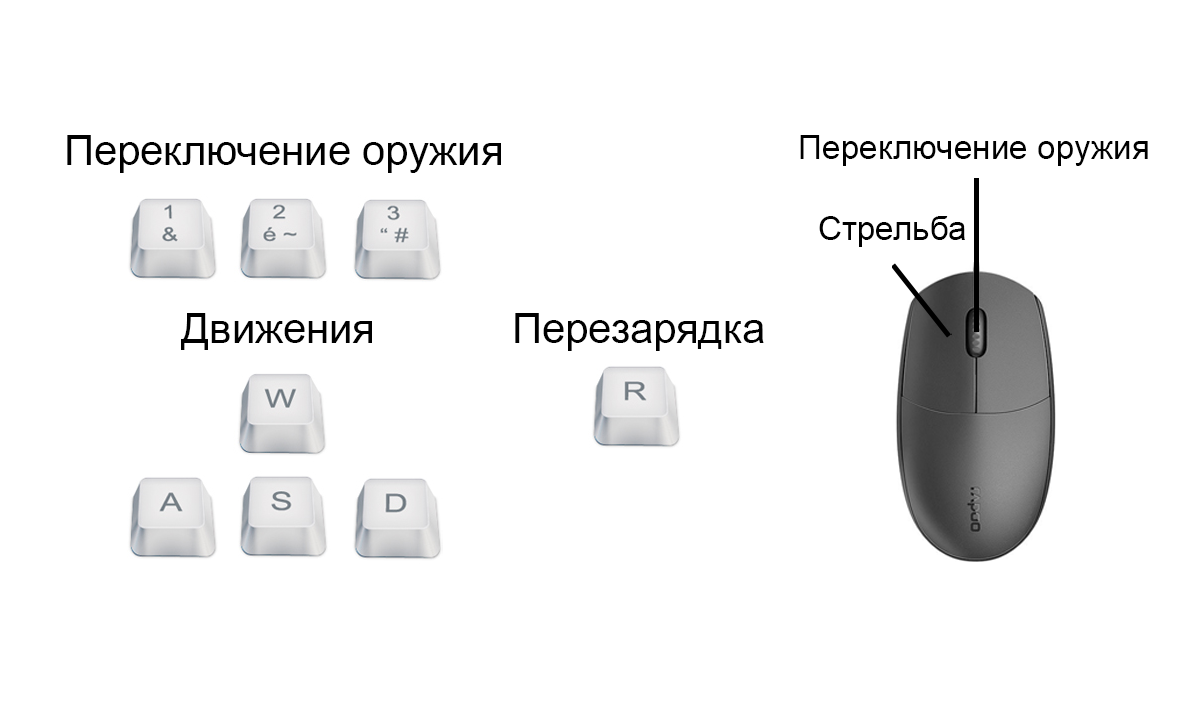
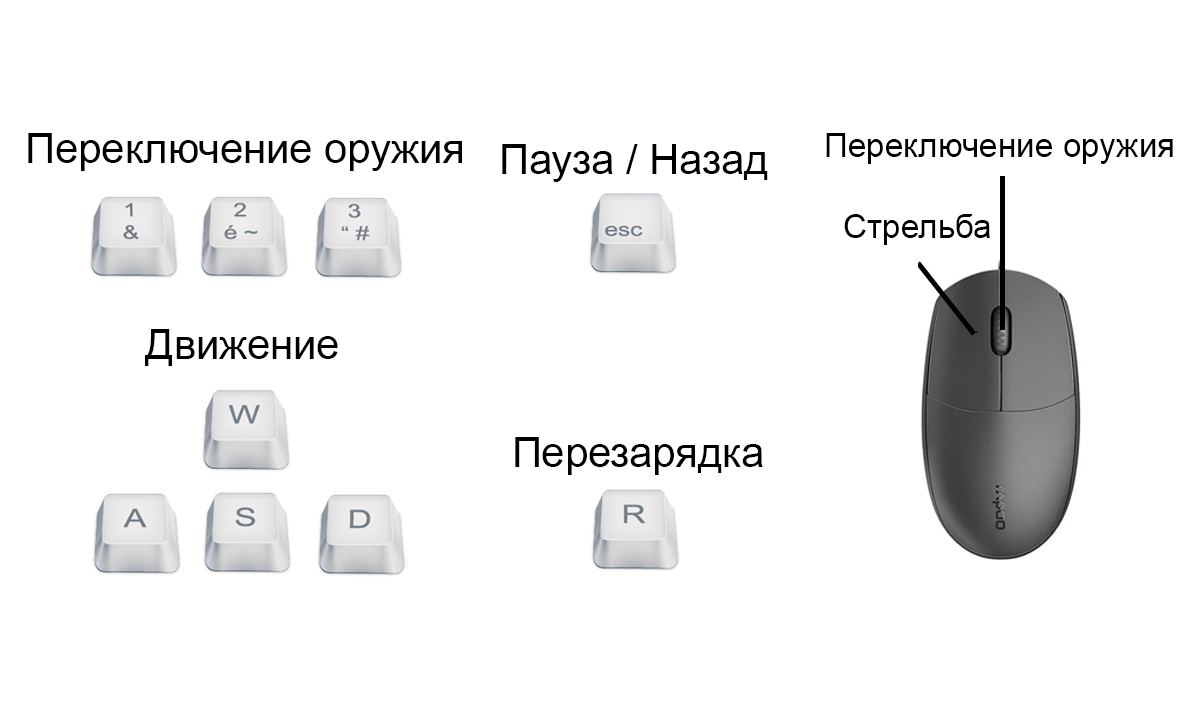
More advanced Menu, puase and navigation added.

diff --git a/main.py b/main.py
@@ -1,15 +1,15 @@
+from time import time
+
 import pygame
-from pygame.constants import MOUSEWHEEL
+from pygame.constants import K_ESCAPE, KEYDOWN, MOUSEWHEEL
 
 import config
-from config import windowCenter
-
 from camera import Camera
-from config import window
+from config import window, windowCenter
 from groups import bullets, texts
-from sprites.game_sprite import GameSprite
 from sprites.collider import Collider
 from sprites.entity import Entity, collidingObjects
+from sprites.game_sprite import GameSprite
 from sprites.player import Player
 from ui.button import Button, OnClick
 from ui.text import Text
@@ -23,38 +23,66 @@ clock = pygame.time.Clock()
 # * Other
 run = True
 gameState = 'menu'
+previousState = 'menu'
+lastChange = 0
 
 # * Camera stuff
 camera = Camera(window)
 
 # ? Game sprites
 # * UI
-ammoText = Text(camera, (25, 25), '', 32, (0, 0, 0), False, 'Arial')
+# & Game
+ammoText = Text(camera, 'left', (25, 25), '', 32, (0, 0, 0), False, 'Arial')
 
-playButton = Button(camera, (windowCenter[0], windowCenter[1] + 100), (150, 75), 'Играть', 32, (255, 255, 255), True, (41, 121, 255))
-controlsButton = Button(camera, (windowCenter[0], windowCenter[1] + 15), (250, 75), 'Управление', 32, (255, 255, 255), True, (41, 121, 255))
-startText = Text(camera, (windowCenter[0], windowCenter[1] - 200), config.startText, 48, (0, 0, 0), False, 'Arial')
+# & Start screen
+playButton = Button(camera, (windowCenter[0], windowCenter[1] + 100), (150, 75), 'Играть', 32)
+controlsButton = Button(camera, (windowCenter[0], windowCenter[1] + 15), (250, 75), 'Управление', 32)
+quitButton = Button(camera, (windowCenter[0], windowCenter[1] + 185), (150, 75), 'Выйти', 32, color=(213, 0, 0))
+startText = Text(camera, 'center', (windowCenter[0], windowCenter[1] - 200), config.startText, 48, (0, 0, 0), False, 'Arial')
 
-# * Contols
+# & Controls
 controlsImage = GameSprite(camera, imgPath='controls')
 controlsImage.rect.center = windowCenter
+exitControlsButton = Button(camera, (85, 35), (150, 50), 'Назад', 32)
+
+# & Pause
+pauseText = Text(camera, 'center', (windowCenter[0], 150), 'Пауза...', 48, (0, 0, 0), True, 'Arial')
+backToGameButton = Button(camera, (windowCenter[0], windowCenter[1] + 100), (250, 75), 'Назад к игре', 32)
+toMenuButton = Button(camera, (windowCenter[0], windowCenter[1] - 70), (200, 75), 'В меню', 32)
 
 # * In-game
 player = Player(camera, True, (0, 0), .6, 'knife/idle/survivor-idle_knife_0', 5, Collider((30, 20), (60, 75)), 100, ammoText)
 wall = Entity(camera, False, (200, 200), 1, 'walls', Collider((0, 0)))
 
-# ? Events
+# ? Button events setup
 # * Event handlers
-def onClickPlay():
-  global gameState
-  gameState = 'game'
+def goTo(newState, prevState):
+  print(prevState, newState)
+  global gameState, previousState, lastChange
 
-def onClickControls():
-  global gameState
-  gameState = 'controls'
+  lastChange = time()
+  gameState = newState
+  previousState = prevState
 
-playButton.addEvent(OnClick(onClickPlay))
-controlsButton.addEvent(OnClick(onClickControls))
+def goBack(_ = None):
+  print('Going back')
+  global gameState, previousState, lastChange
+
+  lastChange = time()
+  gameStateCopy = gameState
+  gameState = previousState
+  previousState = gameStateCopy
+
+def exit(_ = None):
+  global run
+  run = False
+
+playButton.addEvent(OnClick(lambda x: goTo('game', x)))
+controlsButton.addEvent(OnClick(lambda x: goTo('controls', x)))
+exitControlsButton.addEvent(OnClick(goBack))
+backToGameButton.addEvent(OnClick(lambda x: goTo('game', x)))
+toMenuButton.addEvent(OnClick(lambda x: goTo('menu', x)))
+quitButton.addEvent(OnClick(exit))
 
 # * Adding a player to the camera so will be able to make proper
 # * object shift based on the player's movements
@@ -62,36 +90,58 @@ controlsButton.addEvent(OnClick(onClickControls))
 camera.addPlayer(player)
 
 def start():
-  global run
+  global gameState
 
   # ? Game loop
   while run:
+    eventsList = pygame.event.get()
     # print(gameState)
-    for event in pygame.event.get():
+    for event in eventsList:
       if event.type == pygame.QUIT:
-        run = False
+        exit()
+
+      canGoBack = gameState not in ['game', 'pause']
+      if canGoBack and event.type == KEYDOWN and event.key == K_ESCAPE:
+        goBack()
+      # if gameState == 'game' and event.type == KEYDOWN and event.key == K_ESCAPE:
+
     window.fill(config.colors['white'])
 
     if gameState == 'controls':
       controlsImage.draw()
+      exitControlsButton.update(gameState)
 
-    if gameState == 'menu':
-      playButton.update()
-      controlsButton.update()
+    elif gameState == 'menu':
+      playButton.update(gameState)
+      controlsButton.update(gameState)
+      quitButton.update(gameState)
       startText.update()
 
-    if gameState == 'game':
+    elif gameState == 'game':
       saveEvent = None
 
       # * Checking if the user has presse Exit button
-      for event in pygame.event.get():
+      for event in eventsList:
         if event.type == MOUSEWHEEL:
           saveEvent = event
+        if event.type == KEYDOWN and event.key == K_ESCAPE:
+          goTo('pause', 'game')
 
       collidingObjects.update()
       bullets.update()
       player.update(saveEvent)
       camera.scroll()
+
+    elif gameState == 'pause':
+      for event in eventsList:
+        if event.type == KEYDOWN and event.key == K_ESCAPE and time() - lastChange >= 0.1:
+          gameState = 'game'
+
+      controlsButton.update(gameState)
+      backToGameButton.update(gameState)
+      quitButton.update(gameState)
+      toMenuButton.update(gameState)
+      pauseText.update()
 
     pygame.display.flip()
     clock.tick(config.FPS)

diff --git a/ui/button.py b/ui/button.py
@@ -5,6 +5,7 @@ import pygame
 from groups import buttons
 
 from ui.text import Text
+from config import buttonsColor, buttonsTextColor
 
 
 # * Events
@@ -25,6 +26,7 @@ class OnClick:
 class Button(pygame.sprite.Sprite):
   event = None
 
+  # TODO: Make a alignment property similar to text
   def __init__(
     self,
     camera,
@@ -33,9 +35,9 @@ class Button(pygame.sprite.Sprite):
     size: Union[tuple[float, float], list[float, float]] = (0, 0),
     text = '',
     fontSize = 16,
-    textColor = (0, 0, 0),
-    boldText = False,
-    color = (255, 0, 0)
+    textColor = buttonsTextColor,
+    boldText = True,
+    color = buttonsColor
   ):
     super().__init__()
 
@@ -46,7 +48,7 @@ class Button(pygame.sprite.Sprite):
     self.rect = self.surface.fill(color)
 
     self.rect.center = centerCoords
-    self.text = Text(camera, (0, 0), text, fontSize, textColor, bold=boldText)
+    self.text = Text(camera, 'center', (0, 0), text, fontSize, textColor, bold=boldText)
     self.text.rect.center = self.rect.center
 
     buttons.add(self)
@@ -54,10 +56,10 @@ class Button(pygame.sprite.Sprite):
   def addEvent(self, event: object):
     self.event = event
 
-  def update(self):
+  def update(self, gameState):
     if self.event is not None and self.event.name == 'click':
       if self.event.check(self.rect):
-        self.event.handler()
+        self.event.handler(gameState)
 
     self.renderSurface.blit(self.surface, self.rect)
     self.text.update()

diff --git a/ui/text.py b/ui/text.py
@@ -9,6 +9,7 @@ class Text(pygame.sprite.Sprite):
     def __init__(
       self,
       camera,
+      alignment = 'center',
       coords: Union[tuple[float, float], list[float, float]] = (0, 0),
       text = '',
       fontSize = 16,
@@ -25,7 +26,13 @@ class Text(pygame.sprite.Sprite):
 
       self.rect = None
       self.text = text
-      self.rect = self.image.get_rect(center=coords)
+
+      self.alignment = alignment
+      if alignment == 'center':
+        self.rect = self.image.get_rect(center=coords)
+      elif alignment == 'left':
+        self.rect = self.image.get_rect(topleft=coords)
+
 
       texts.add(self)
 
@@ -37,7 +44,10 @@ class Text(pygame.sprite.Sprite):
     def text(self, newText):
       self.image = self.font.render(str(newText), 1, self.color)
       if self.rect is not None:
-        self.rect = self.image.get_rect(center=self.rect.topleft)
+        if self.alignment == 'center':
+          self.rect = self.image.get_rect(center=self.rect.center)
+        elif self.alignment == 'left':
+          self.rect = self.image.get_rect(topleft=self.rect.topleft)
       else:
         self.rect = self.image.get_rect()
 

diff --git a/config.py b/config.py
@@ -1,7 +1,8 @@
 import pygame
 
 # * Settings
-windowSize = (1920, 1080)
+# windowSize = (1920 / 2, 1080 / 2)
+windowSize = (1280, 720)
 windowCenter = (windowSize[0] / 2, windowSize[1] / 2)
 
 FPS = 60
@@ -10,8 +11,10 @@ weaponChangeDelay = 0.1  # ~ Time in second which sets how often you can change 
 bulletSpeed = 15
 
 # * Constants
+buttonsColor = (41, 121, 255)
+buttonsTextColor = (255, 255, 255)
 colors = {
-  'white': (255, 255, 255)
+  'white': (255, 255, 255),
 }
 
 startText = 'Добро пожаловать в TDS'
